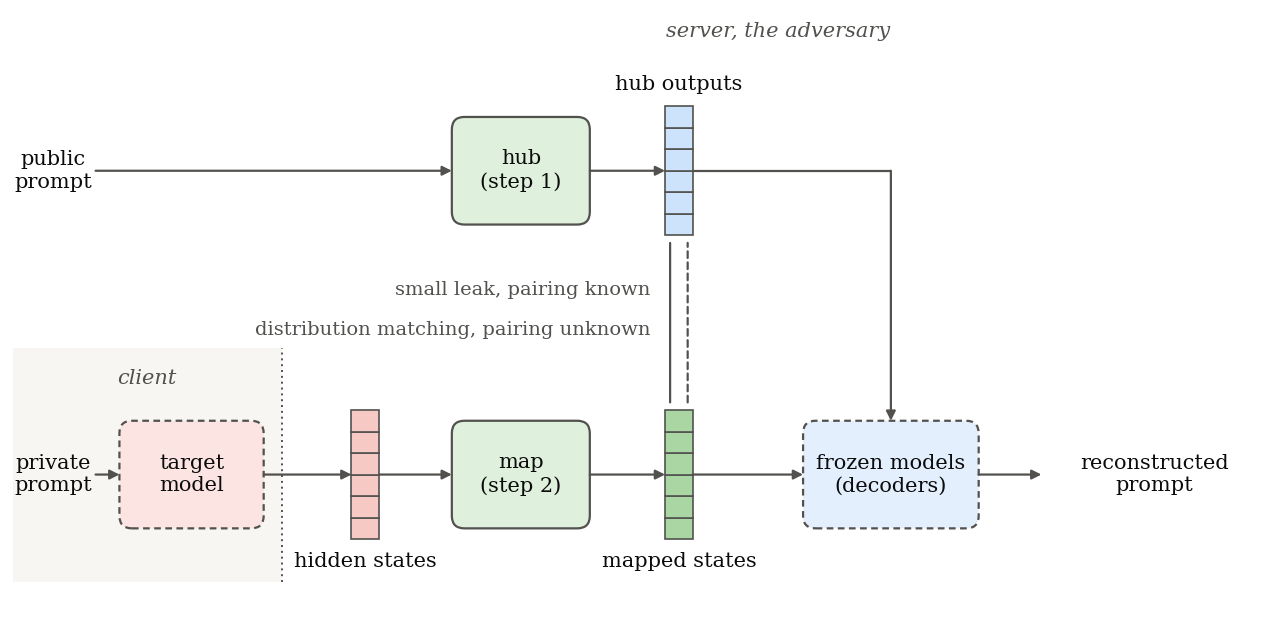
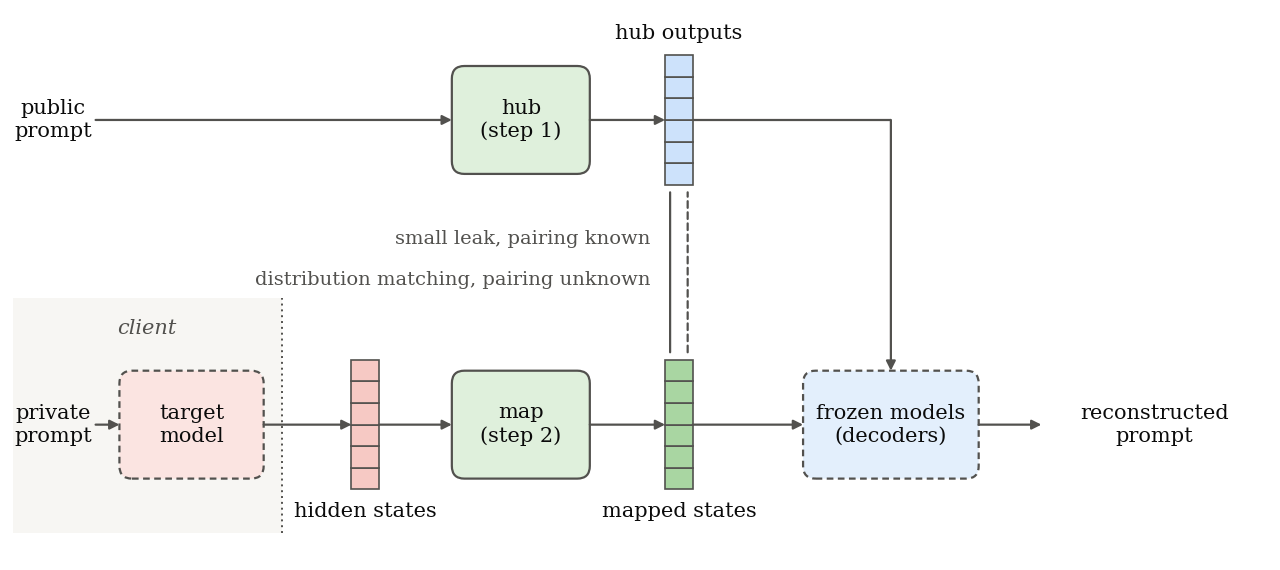
figure 1.1: server label removed; caption states the overall flow

diff --git a/chapters/ch1_introduction/ch1.tex b/chapters/ch1_introduction/ch1.tex
@@ -42,12 +42,12 @@ Outside the leak, the server still receives the hidden states of every prompt, w
 The adversary is also assumed to hold natural text of the same kind as those prompts, without knowing which text matches which hidden state.
 A matching term aligns the distribution of the mapped hidden states with the distribution of hub outputs for that text.
 A map trained on the leak alone is the supervised fit, and a map trained on the leak and the matching term is the hybrid fit.
-Figure~\ref{fig:intro:approach} shows both steps.
+Figure~\ref{fig:intro:approach} shows the overall flow of the work.
 
 \begin{figure}[ht]
 \centering
 \includegraphics[width=\textwidth]{ch1/approach_overview}
-\caption{A map trained on a small leak and on distribution matching sends the hidden states that the server receives into a pretrained translation hub, whose decoders reconstruct the private prompt.
+\caption{The work in two steps: step 1 trains a translation hub on public prompts, and step 2 fits a map that sends the hidden states of a private prompt into the hub, where frozen models reconstruct the prompt.
 Red marks the target model and its hidden states, blue marks the public side, that is, the hub outputs for public prompts and the frozen models that decode them, and green marks what is trained: the hub in step 1 and the map in step 2, with the mapped states that the map produces.
 Solid boxes are trained and dashed boxes are frozen.
 The two vertical lines are the comparisons that train the map: on a small leak, where the pairing is known, and by distribution matching, where it is not.}

diff --git a/figures/scripts/make_figures.py b/figures/scripts/make_figures.py
@@ -119,9 +119,9 @@ def attack_map():
 def overview():
     """The whole approach as one diagram for Chapter 1: no result file is read."""
     from matplotlib.patches import FancyBboxPatch
-    fig, ax = plt.subplots(figsize=(6.4, 3.1))
+    fig, ax = plt.subplots(figsize=(6.4, 2.85))
     ax.set_xlim(0, 100)
-    ax.set_ylim(20, 68)
+    ax.set_ylim(20, 64)
     ax.axis("off")
     fig.subplots_adjust(0.01, 0.01, 0.99, 0.99)
     h = 8.5
@@ -145,7 +145,6 @@ def overview():
 
     top, bottom = 55, 31
     # Step 1, top lane: the adversary's own text through the frozen hub.
-    ax.text(61, 66, "server, the adversary", ha="center", va="center", fontsize=7.5, color=INK2, style="italic")
     vs, vx = 27, 52
     ax.text(3.2, top, "public\nprompt", ha="center", va="center", fontsize=7.5, color=INK, linespacing=1.25)
     box(35, top, 11, "hub\n(step 1)", green_box)
